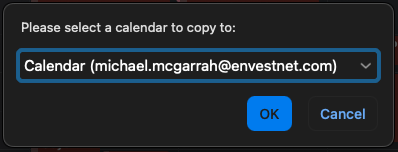
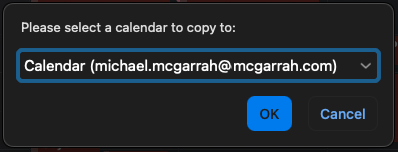
Add new post and clean up drafts in posts folder

Changed region(s): [[0.5729, 0.3947, 0.7538, 0.5]]

diff --git a/_posts/2025-01-30-macos-outlook-copy-events.md b/_posts/2025-01-30-macos-outlook-copy-events.md
@@ -1,0 +1,39 @@
+---
+title:  "MacOS Outlook Calendar Copy Events"
+layout: post
+tags: technical macos outlook calendar
+published: true
+---
+
+The Copy/Paste of an Event in the Outlook Calendar is no longer offered and cut off without much notice. I can confirm this in Outlook on the Mac as of 4Q-2024. This appears to also impact Windows users but they have a registry workaround to re-enable it. This is not a bug but functionality that was intentionally removed by Microsoft for reasons mentioned in their post below.
+
+[Outlook blocks copying meetings with “Copying meetings is not supported.”](https://support.microsoft.com/en-us/office/outlook-blocks-copying-meetings-with-copying-meetings-is-not-supported-4baaa023-2199-4833-b7ac-d9f0715d50f1)
+
+This change drove me insane as I historically used calendar events to track my work and export it for hour accounting against projects. Using [Tempo with Jira](https://www.tempo.io/) integration made this even easier. Before this change, I would just copy some work event from earlier and move it to a new time that had my project code and description of the project. It was a massively convenient piece of my workflow.
+
+So, deep breath, I finally found another method to make copies of Events that was not obvious.
+
+<!-- excerpt-end -->
+
+## How to Copy/Paste an Event on MacOS
+
+[![macOS Touch ID dialog](/assets/images/macos-outlook-copy-paste-calendar-event-001.png "macOS Touch ID dialog"){:width="45%" height="45%" style="display:block; margin-left:auto; margin-right:auto"}](/assets/images/macos-outlook-copy-paste-calendar-event-001.png){:target="_blank"}
+
+If you Ctrl-Click an Event/Meeting, you get the above popup menu. Select the "Move", then select "Copy to Folder..." and you will be prompted for which Calendar to copy the Event. You can see the popup below.
+
+[![macOS Touch ID dialog](/assets/images/macos-outlook-copy-paste-calendar-event-002.png "macOS Touch ID dialog"){:width="35%" height="35%" style="display:block; margin-left:auto; margin-right:auto"}](/assets/images/macos-outlook-copy-paste-calendar-event-002.png){:target="_blank"}
+
+You now have an exact copy of your Event in your Calendar that is ready to be modified.
+
+[![macOS Touch ID dialog](/assets/images/macos-outlook-copy-paste-calendar-event-003.png "macOS Touch ID dialog"){:width="35%" height="35%" style="display:block; margin-left:auto; margin-right:auto"}](/assets/images/macos-outlook-copy-paste-calendar-event-003.png){:target="_blank"}
+
+## Enable Copy/Paste for Events on Windows
+
+I do not have a Windows machine to test this so this is provided without any review. Copy this text into a file called `EnableMeetingCopy.reg`, save it and then double click the file. This will import the change into the registry. This is supposed to work.
+
+``` registry
+Windows Registry Editor Version 5.00
+
+[HKEY_CURRENT_USER\Software\Microsoft\Office\16.0\Outlook\Options\Calendar]
+"EnableMeetingCopy"=dword:00000001
+```
